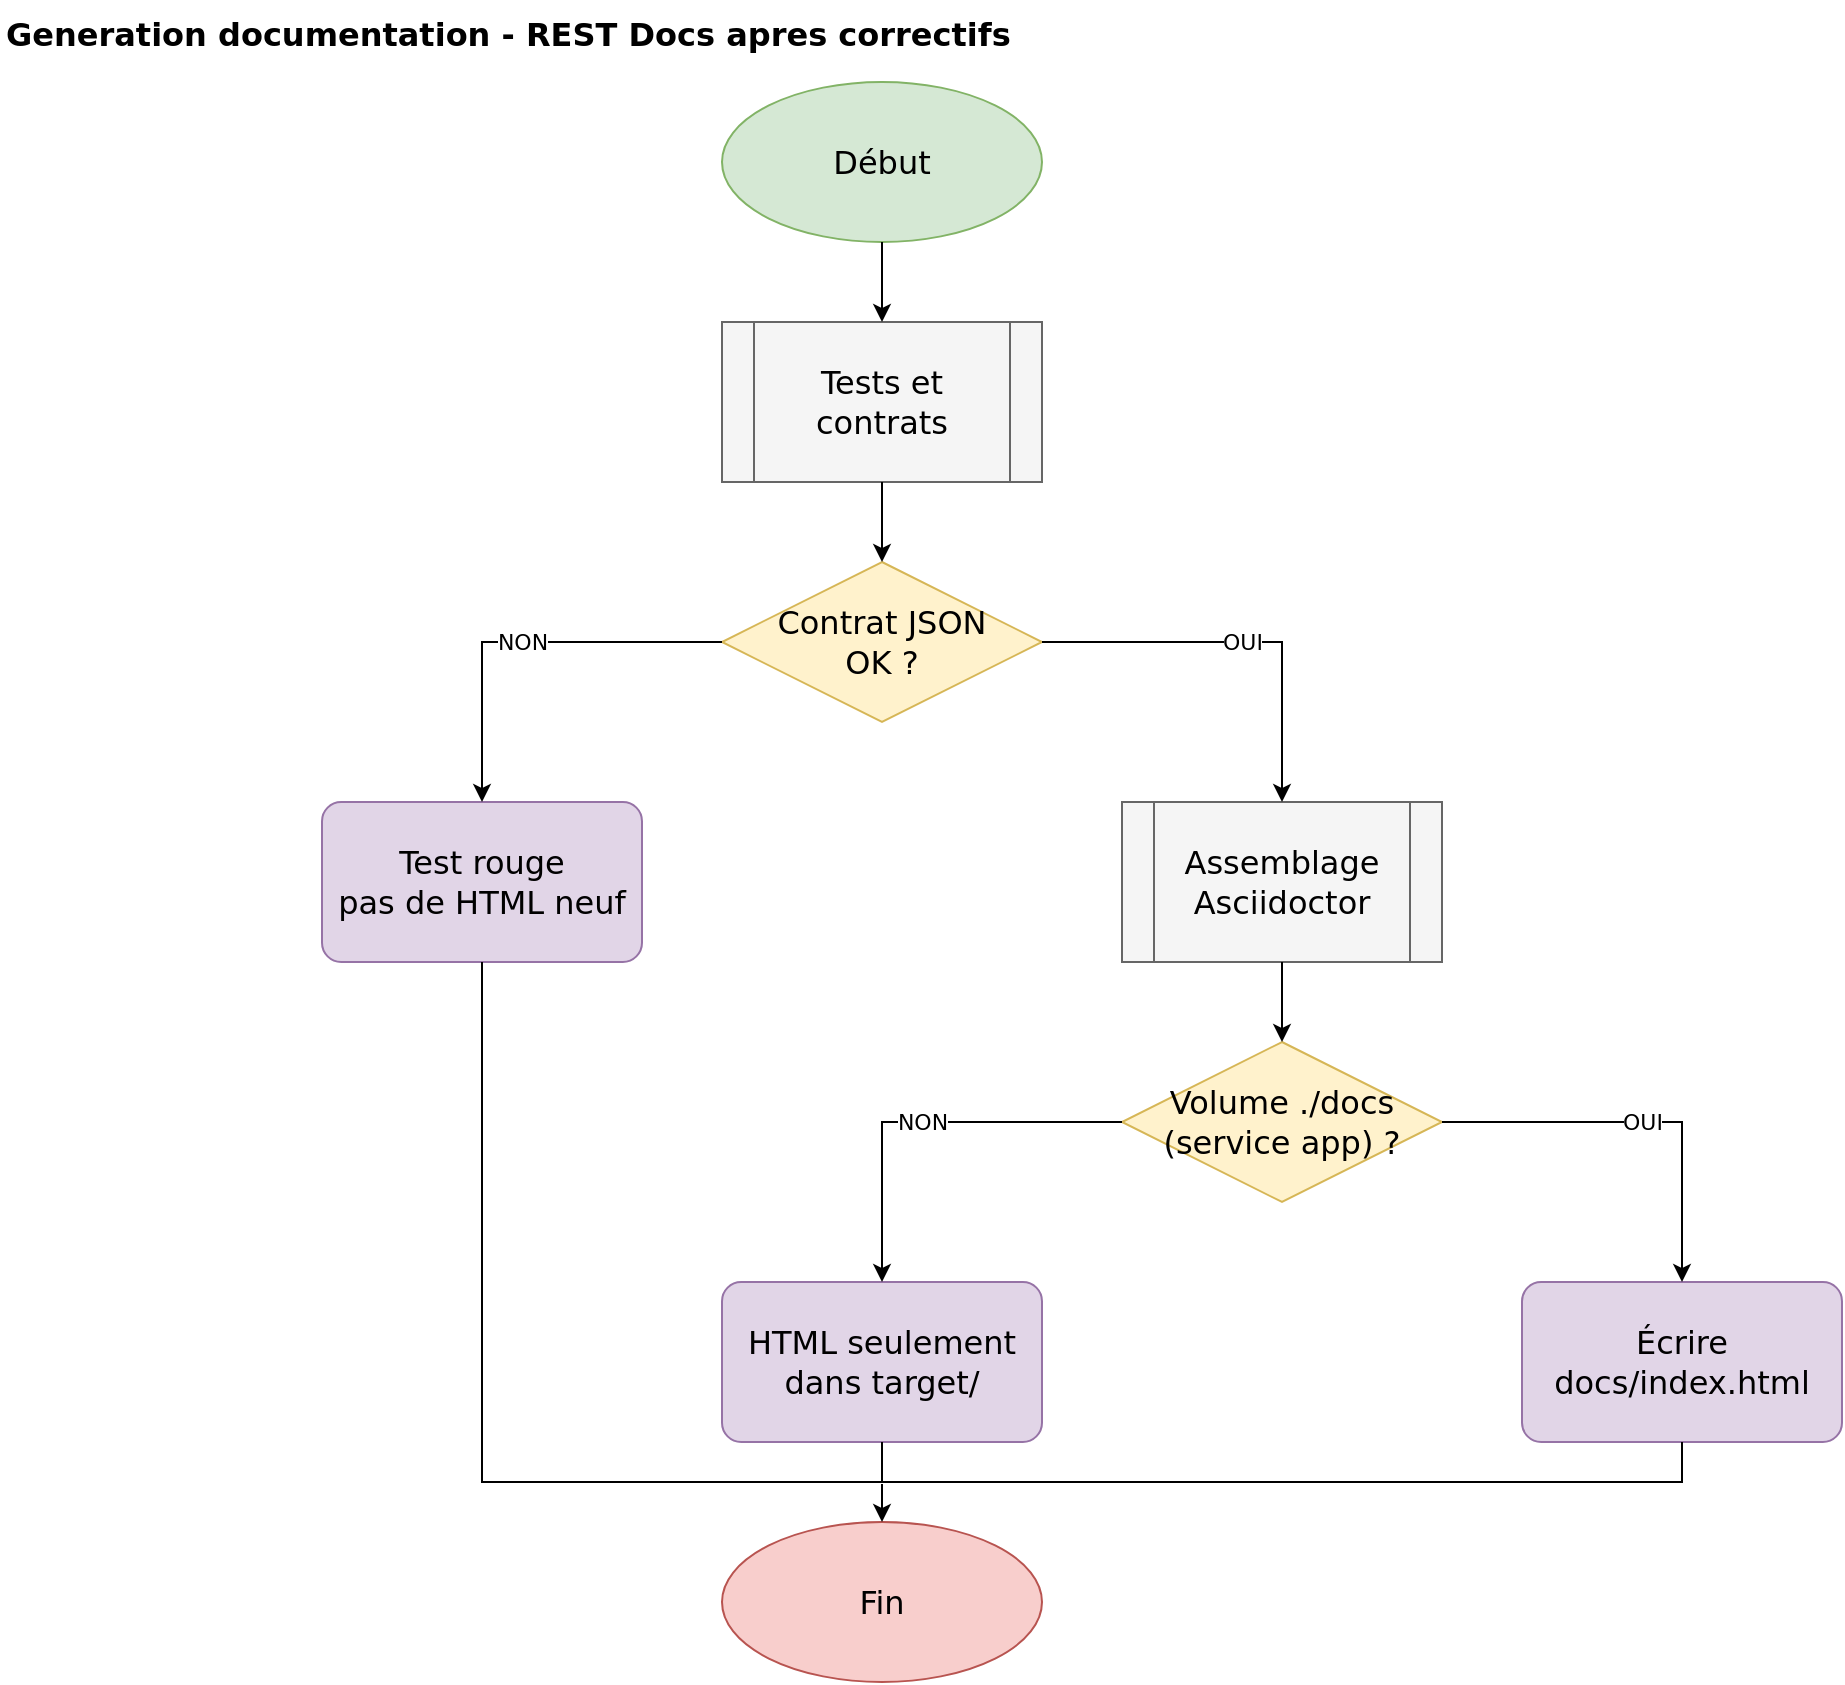
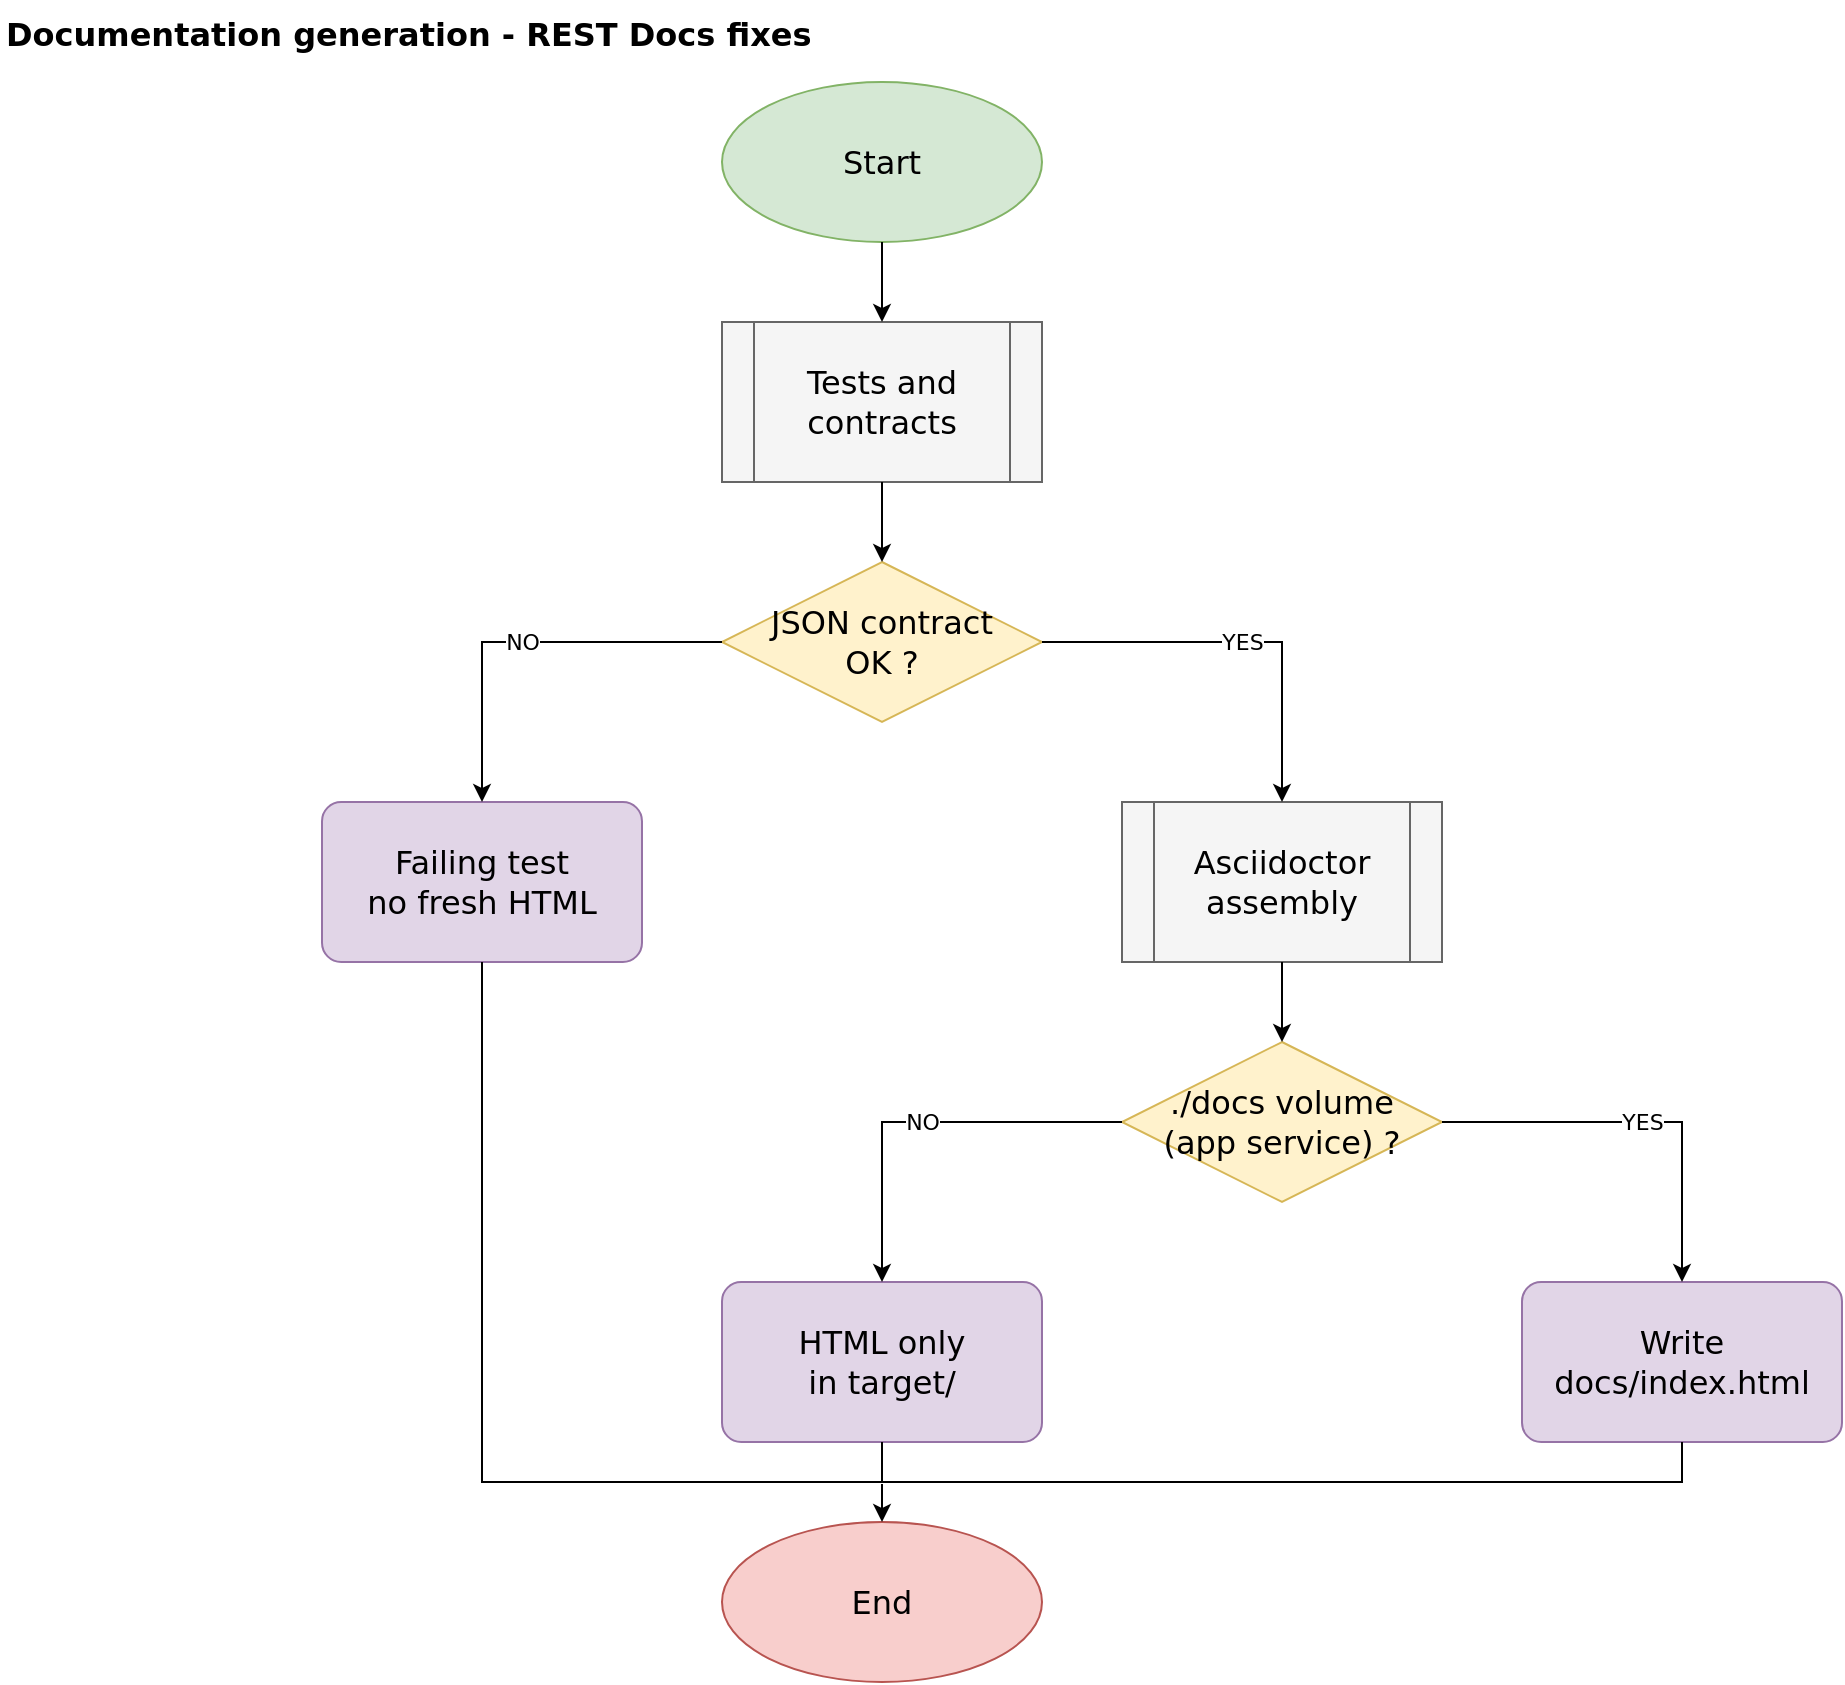
docs: translate process diagrams to English and regenerate PNGs
Draw.io sources and exported images now use English labels; update annex
image paths for renamed diagram pages.

diff --git a/docs/api-documentation-generation.md b/docs/api-documentation-generation.md
@@ -30,9 +30,9 @@ Summary:
 
 ## Diagram 2: tests and contracts
 
-Source: [restdocs-generation.drawio](process/restdocs-generation.drawio) (page **« 2. Tests et contrats »**)
+Source: [restdocs-generation.drawio](process/restdocs-generation.drawio) (page **« 2. Tests and contracts »**)
 
-![MockMvc tests and JSON contracts](process/export/restdocs-generation-2.-Tests-et-contrats.png)
+![MockMvc tests and JSON contracts](process/export/restdocs-generation-2.-Tests-and-contracts.png)
 
 Classes involved:
 
@@ -56,9 +56,9 @@ target/generated-snippets/auth/login/response-fields.adoc
 
 ## Diagram 3: Asciidoctor assembly
 
-Source: [restdocs-generation.drawio](process/restdocs-generation.drawio) (page **« 3. Assemblage Asciidoctor »**)
+Source: [restdocs-generation.drawio](process/restdocs-generation.drawio) (page **« 3. Asciidoctor assembly »**)
 
-![Asciidoctor assembly](process/export/restdocs-generation-3.-Assemblage-Asciidoctor.png)
+![Asciidoctor assembly](process/export/restdocs-generation-3.-Asciidoctor-assembly.png)
 
 At the top of `index.adoc`:
 
